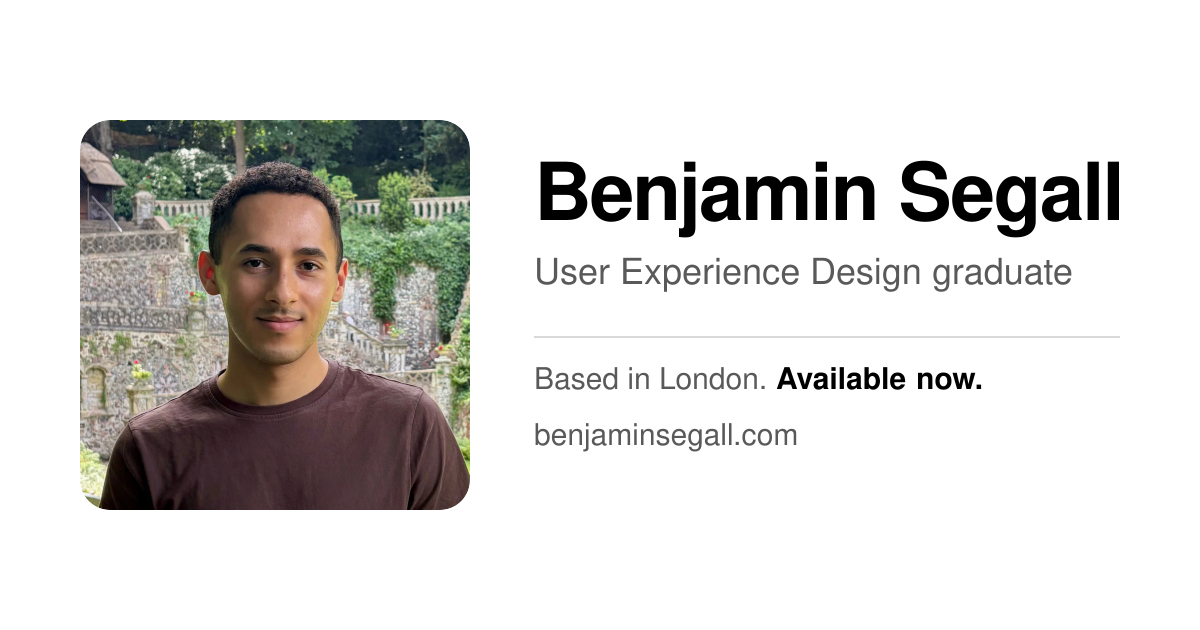
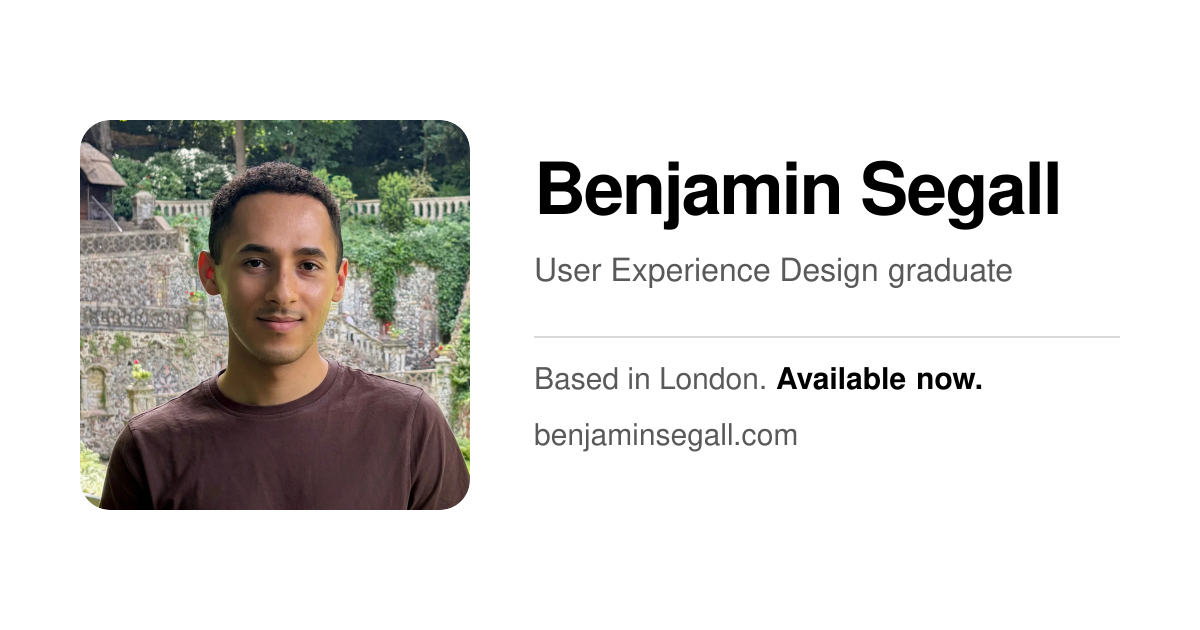
Refine About copy and social preview

Changed region(s): [[0.4317, 0.2413, 0.9558, 0.3921], [0.4317, 0.3921, 0.8942, 0.4524]]

diff --git a/lib/portfolio-data.ts b/lib/portfolio-data.ts
@@ -97,17 +97,18 @@ export function isGated(project: Project | GatedProject): project is GatedProjec
 export const profile = {
   name: "Benjamin Segall",
   bio: [
-    "Hi, I'm Ben. I recently graduated in User Experience Design from Norwich University of the Arts, with experience across agency, consultancy, enterprise and university teams. I enjoy understanding what people need and finding practical ways to make things work better.",
+    "Hi, I'm Ben. I recently graduated in User Experience Design from Norwich University of the Arts, with experience across agency, consultancy and enterprise teams. I enjoy understanding what people need, what gets in their way and what could be done differently.",
   ],
   // Revealed when the bio block is expanded, inserted between `bio` and
   // `current` — the location and availability stay pinned last in both states.
   more: [
-    "I like asking questions, listening to different perspectives and working out what to try next. My design background has given me a way to explore problems and test ideas. I'm interested in how organisations work and how technology can be useful in everyday work. I'm looking for an early career role where I can keep learning, work with people and help put improvements into practice.",
+    "I start by asking questions, listening to different perspectives and working through what is unclear. My design work has taught me to test solutions with people and see what holds up in practice.",
+    "I'm interested in how organisations make decisions and how technology changes the way people work. I'm looking for an early career role where I can work with different teams, learn how an organisation operates and help turn research into recommendations it can act on.",
   ],
   // Keep availability emphasised separately from location.
   current: {
     location: "Based in London.",
-    availability: "Available now and open to relocating.",
+    availability: "Available now.",
   },
   portrait: {
     src: "/images/site/portrait.webp",
@@ -416,14 +417,14 @@ export const siteMeta = {
    * name. The description adds background and availability below the name.
    */
   name: "Benjamin Segall",
-  description: "User Experience Design graduate with experience across agency, consultancy, enterprise and university teams. Based in London, available now and open to relocating.",
+  description: "User Experience Design graduate with experience across agency, consultancy and enterprise teams. Based in London. Available now.",
   /** Live origin. Open Graph needs absolute URLs, so this resolves the card. */
   url: "https://www.benjaminsegall.com",
   /**
    * The 1200x630 share card, rendered by scripts/generate-social-card.mjs.
    * Update the image and its version together so image caches can refresh.
    */
-  ogImage: "/images/site/og.png?v=20260927-2",
+  ogImage: "/images/site/og.png?v=20260928",
   ogImageAlt:
     "Benjamin Segall. User Experience Design graduate. Based in London. Available now.",
 }
